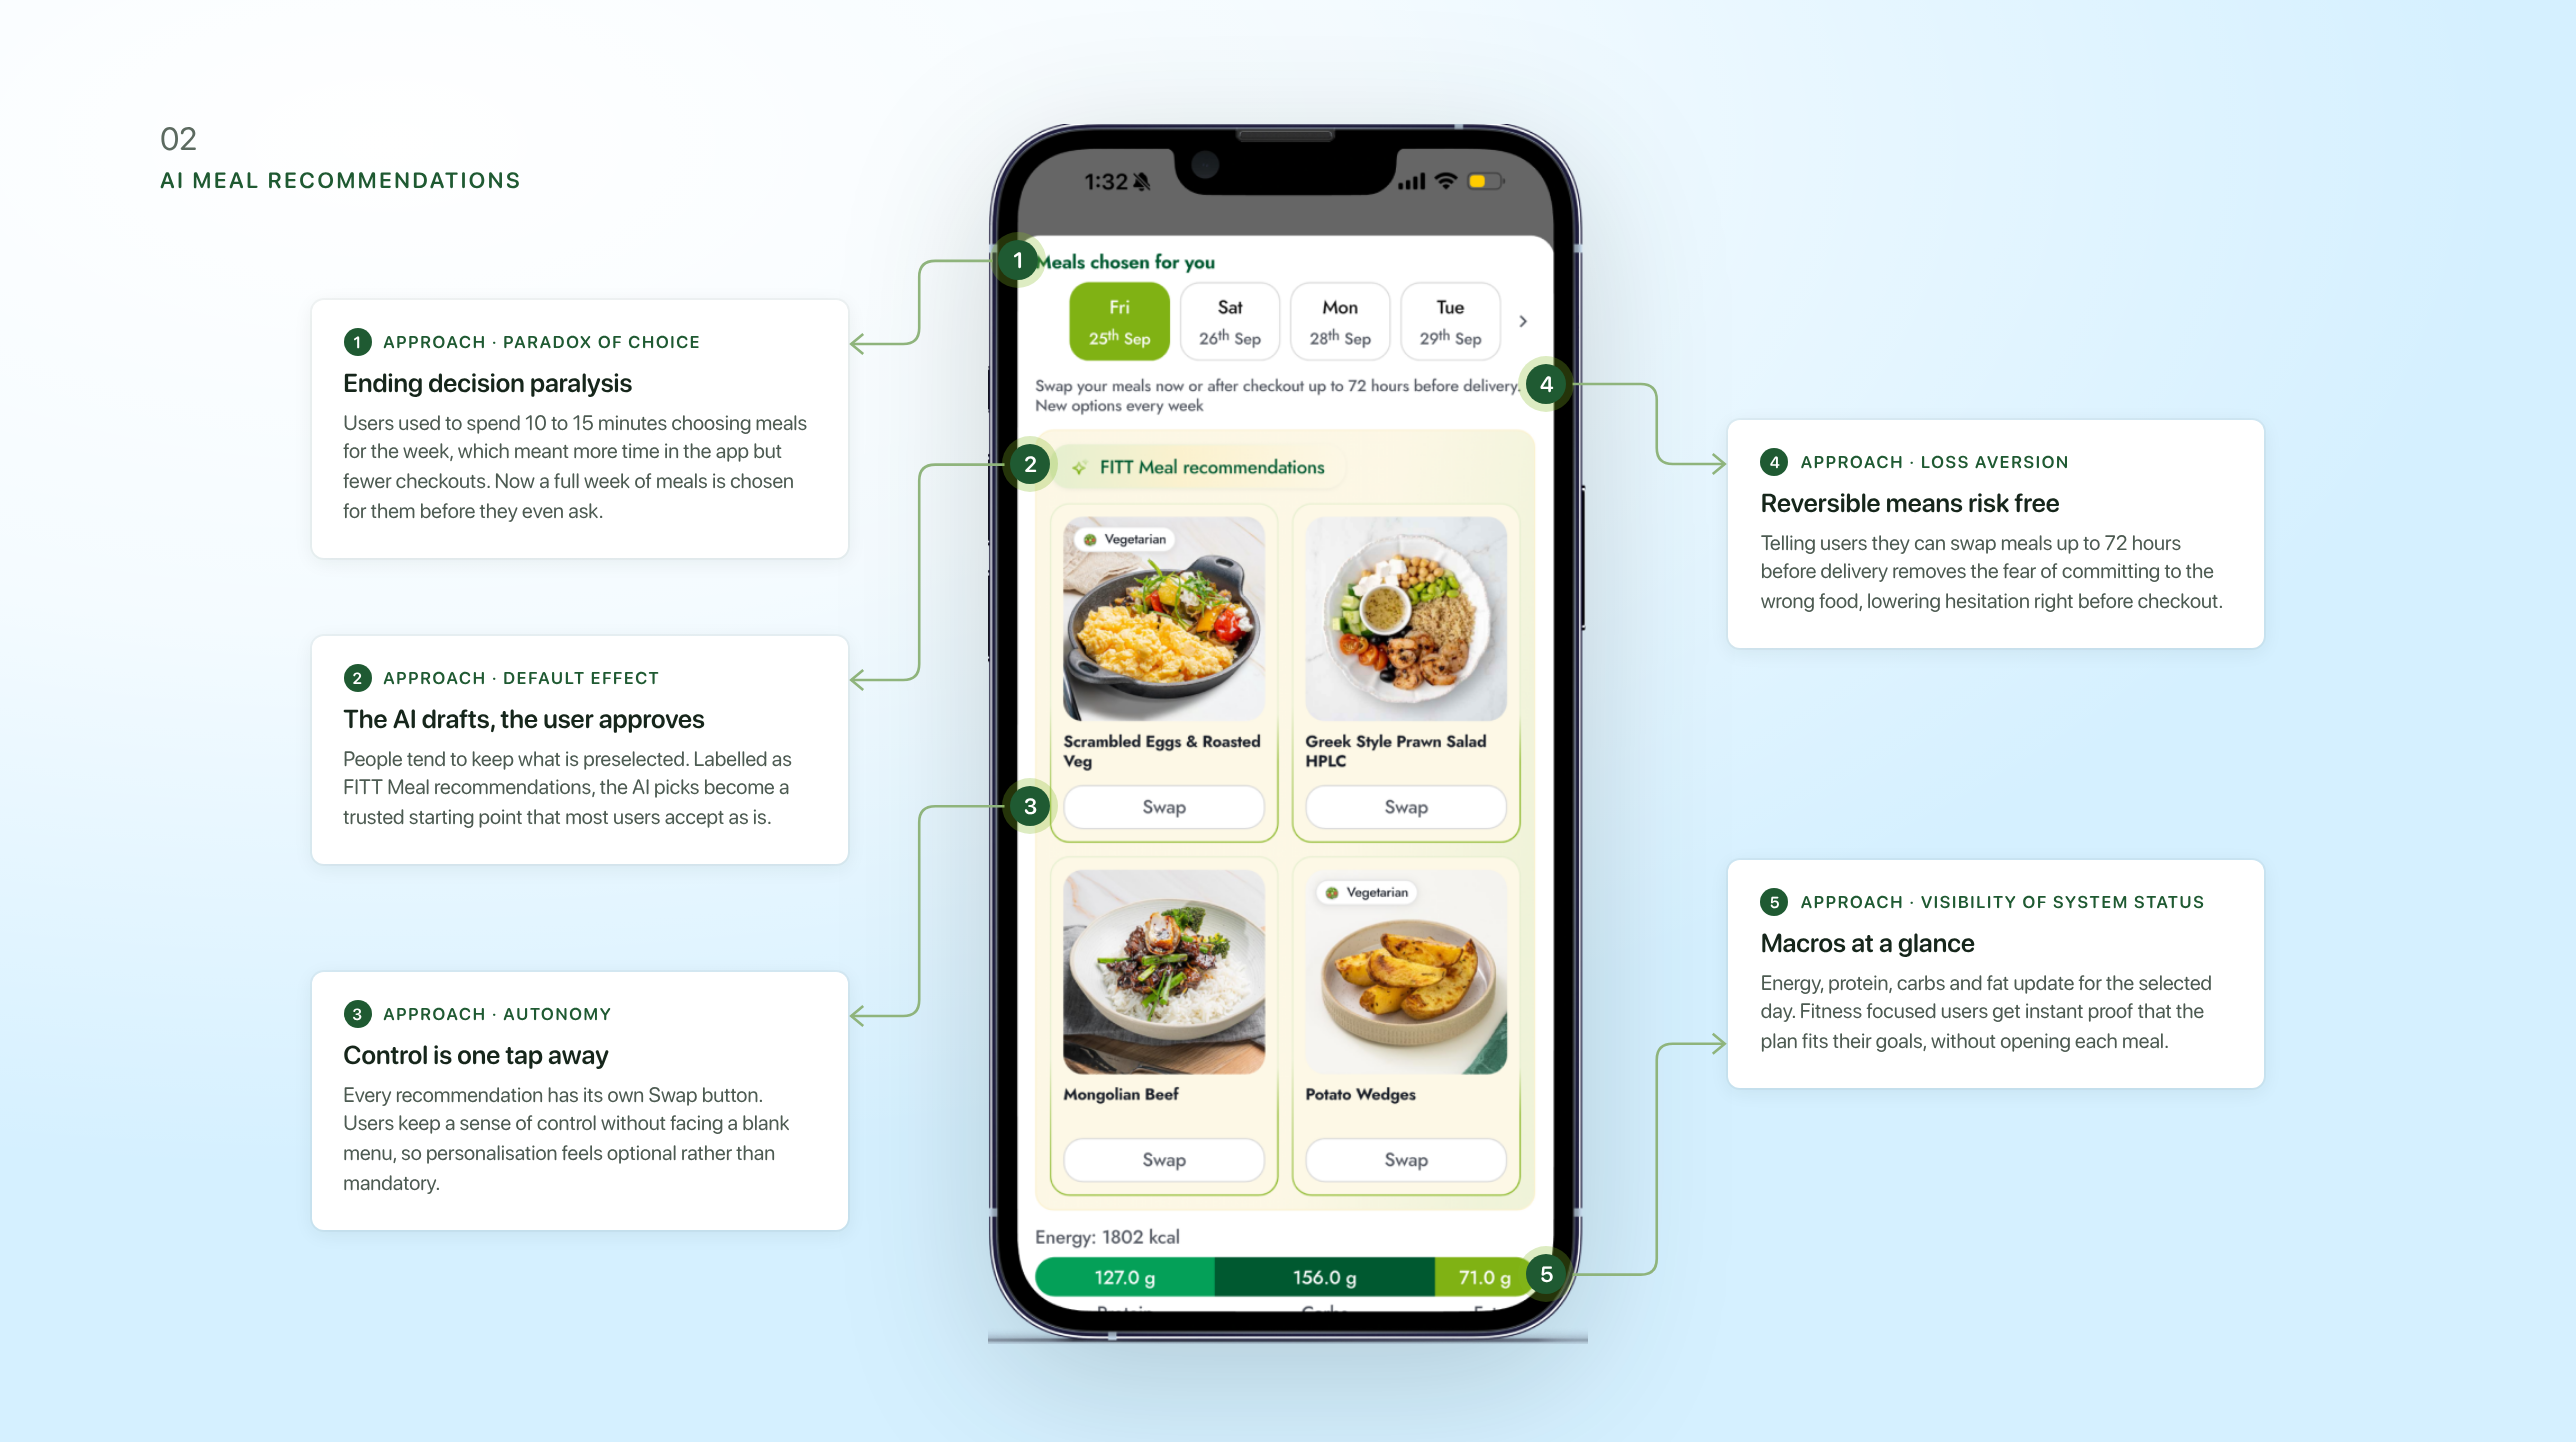
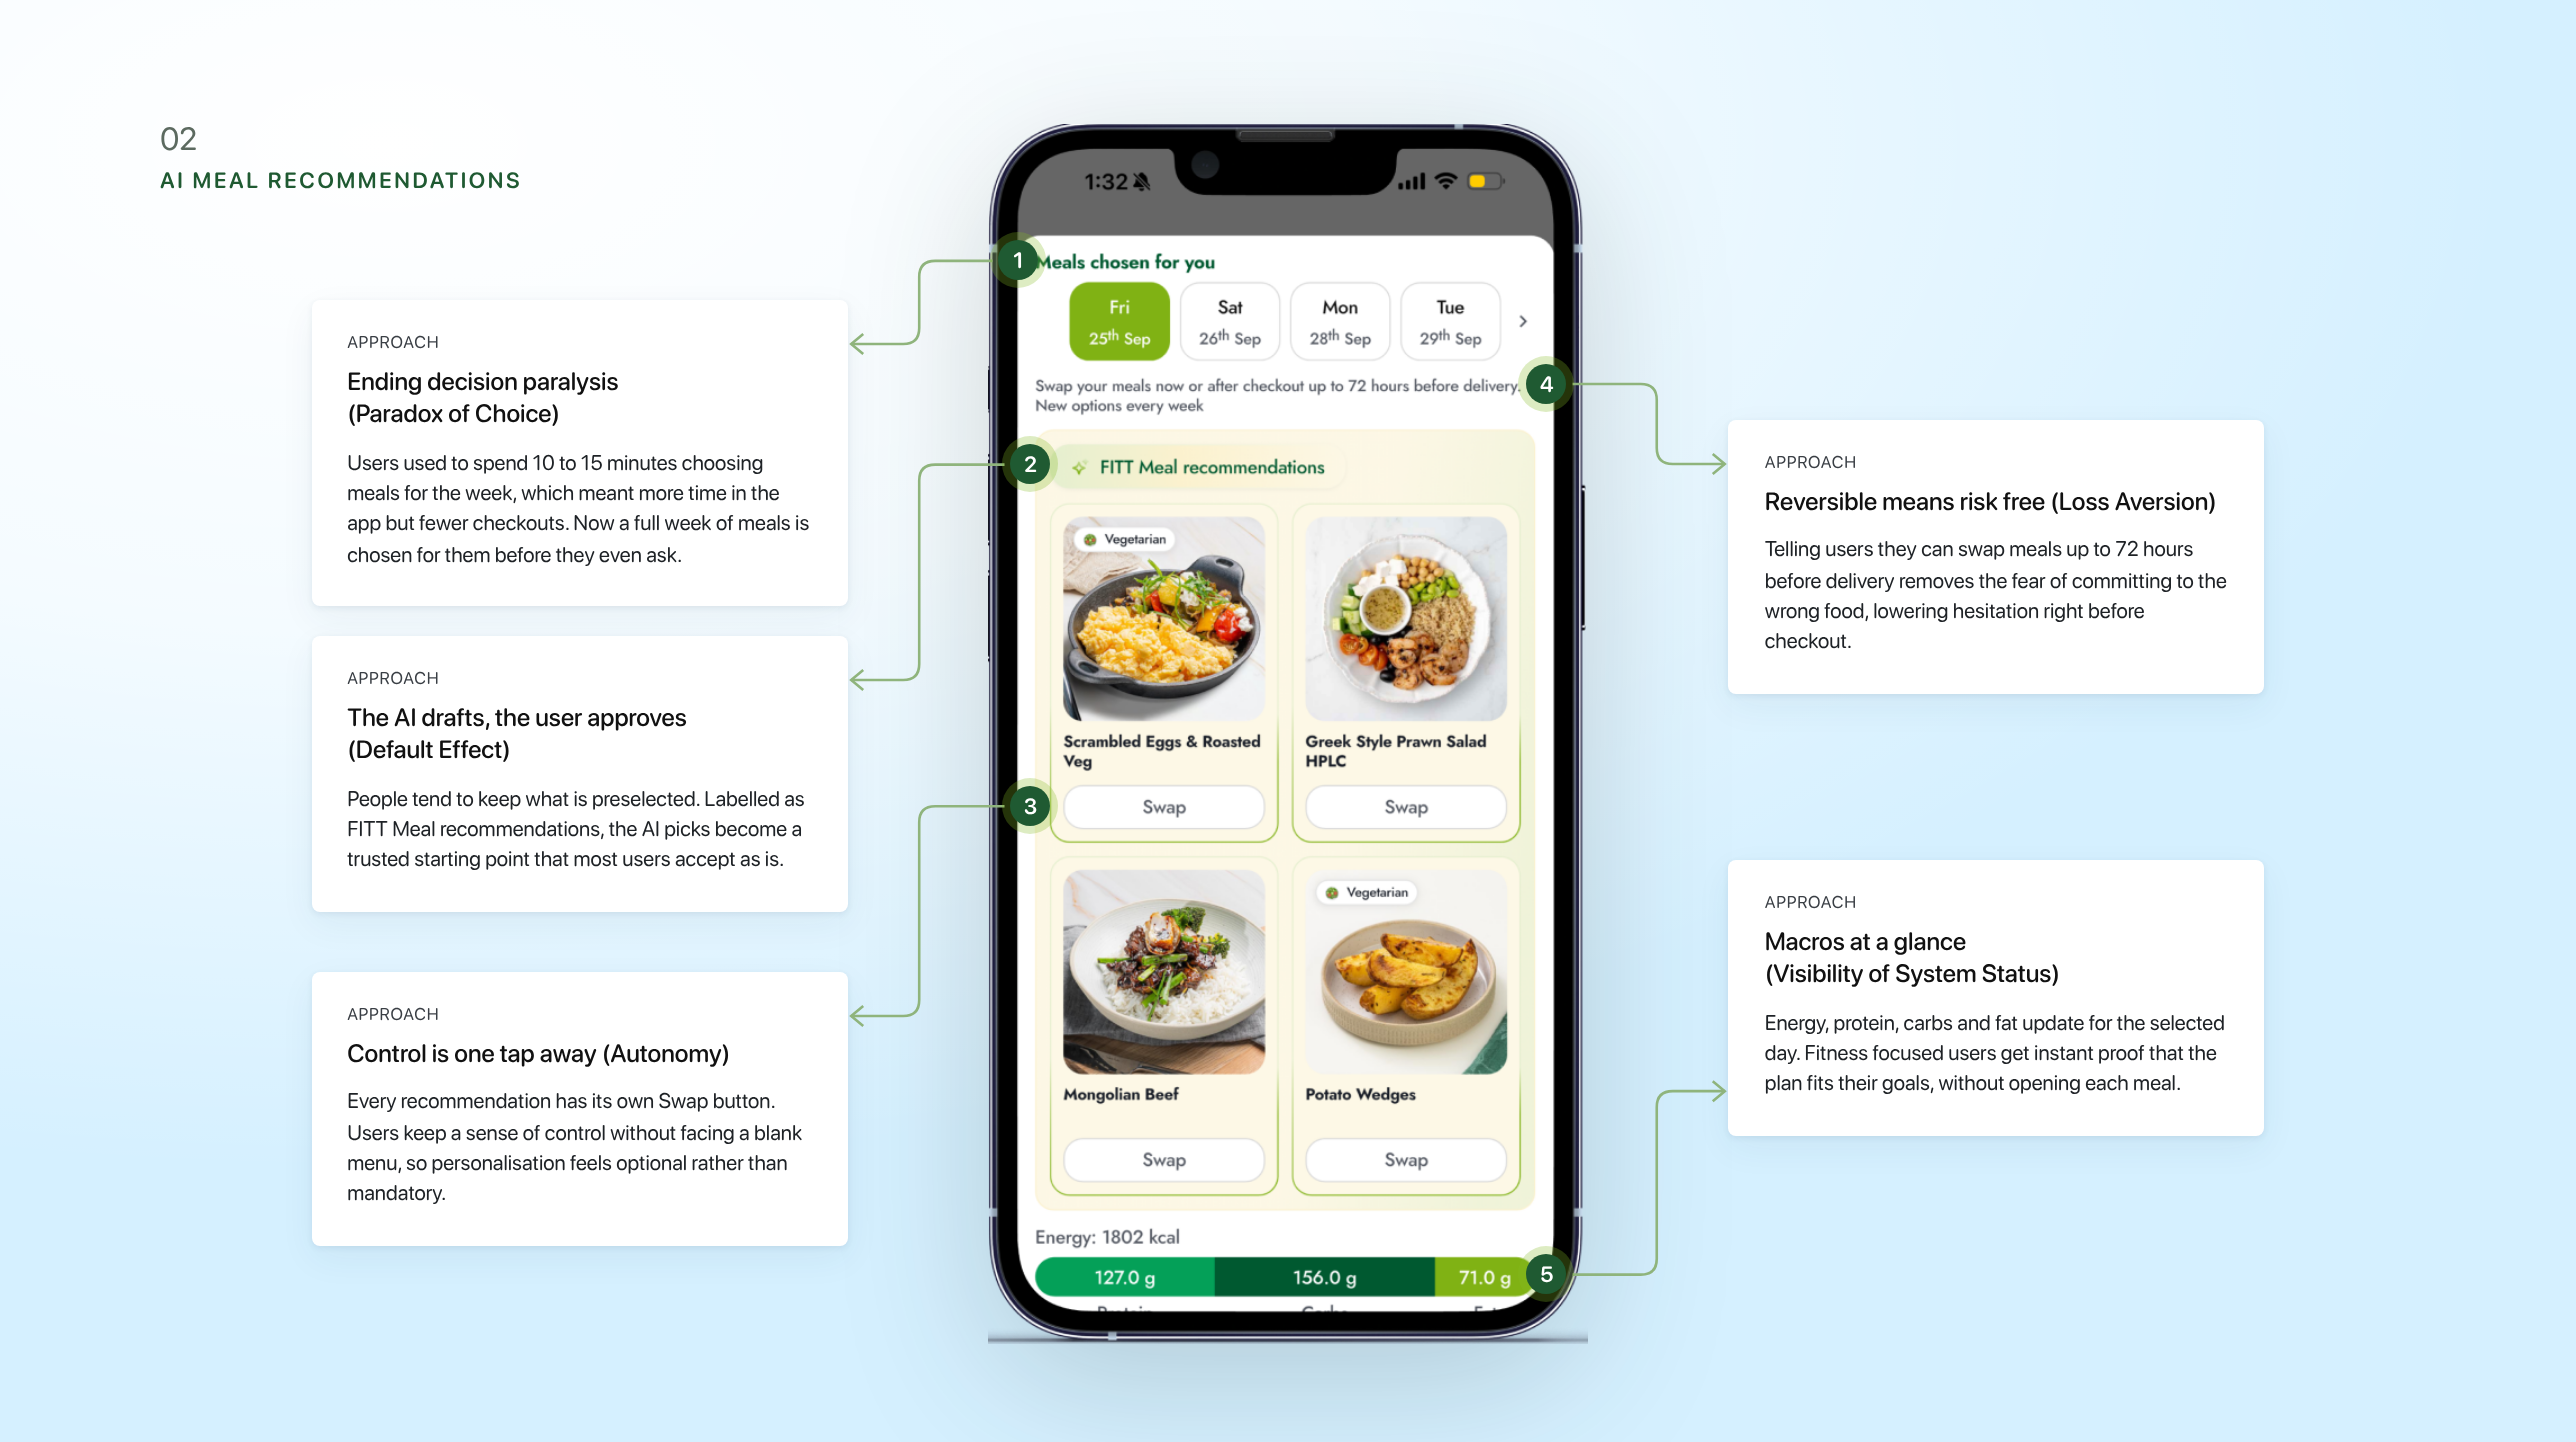
FITT: update core feature images

diff --git a/work/fitt-subscription-journey.html b/work/fitt-subscription-journey.html
@@ -5,7 +5,7 @@
 <link rel="icon" type="image/svg+xml" href="../assets/favicon.svg">
 <meta name="viewport" content="width=device-width, initial-scale=1.0">
 <title>FITT Meals: Subscription Journey | Hafsah Zulafiqar</title>
-<link rel="stylesheet" href="../styles.css?v=2026100827">
+<link rel="stylesheet" href="../styles.css?v=2026101301">
 <link rel="preconnect" href="https://fonts.googleapis.com">
 <link rel="preconnect" href="https://fonts.gstatic.com" crossorigin>
 <link href="https://fonts.googleapis.com/css2?family=DM+Sans:wght@400;500;700&family=Fira+Sans:wght@400;700;800;900&display=swap" rel="stylesheet">
@@ -181,25 +181,25 @@
         <div class="case-feature-block">
           <h4>Choose which plan suits you best</h4>
           <p>Preview the plans to see what options suit your lifestyle, look at the weekly menu, the portion options and jump to a preset selection of customizations tailored for you.</p>
-          <img class="case-feature-img" src="../assets/fitt-meals/core-ux-plan-discovery.png" alt="Plan discovery and setup: plans named after goals, a bottom sheet with a sample menu, and a prefilled build screen, each annotated with the design approach" width="2576" height="1442" loading="lazy">
+          <img class="case-feature-img" src="../assets/fitt-meals/core-ux-plan-discovery.png?v=2" alt="Plan discovery and setup: plans named after goals, a bottom sheet with a sample menu, and a prefilled build screen, each annotated with the design approach" width="2576" height="1442" loading="lazy">
         </div>
 
         <div class="case-feature-block">
           <h4>See exactly what you're getting</h4>
           <p>Fewer choices, smart defaults and one card per question. The total and discounts update live above the button, so the price is clear before payment.</p>
-          <img class="case-feature-img" src="../assets/fitt-meals/core-ux-build-plan.png" alt="Build your plan screen annotated with the design approaches: smart defaults, fewer choices, one card per question, upfront total and a thumb-zone Next button" width="2576" height="1442" loading="lazy">
+          <img class="case-feature-img" src="../assets/fitt-meals/core-ux-build-plan.png?v=2" alt="Build your plan screen annotated with the design approaches: smart defaults, fewer choices, one card per question, upfront total and a thumb-zone Next button" width="2576" height="1442" loading="lazy">
         </div>
 
         <div class="case-feature-block">
           <h4>Manage it your way</h4>
           <p>A week of meals is chosen for you before you ask, with a Swap button on every pick and macros visible at a glance. Swapping is open until 72 hours before delivery.</p>
-          <img class="case-feature-img" src="../assets/fitt-meals/core-ux-ai-meals.png" alt="AI meal recommendations screen annotated with the design approaches: ending decision paralysis, AI drafts the user approves, one-tap control, reversible swaps and macros at a glance" width="2576" height="1442" loading="lazy">
+          <img class="case-feature-img" src="../assets/fitt-meals/core-ux-ai-meals.png?v=2" alt="AI meal recommendations screen annotated with the design approaches: ending decision paralysis, AI drafts the user approves, one-tap control, reversible swaps and macros at a glance" width="2576" height="1442" loading="lazy">
         </div>
 
         <div class="case-feature-block">
           <h4>Check out in a few taps</h4>
           <p>Build first, sign up later. The original price sits beside the plan price, savings are framed as a gain, and the last thing users read before paying is plain-language reassurance.</p>
-          <img class="case-feature-img" src="../assets/fitt-meals/core-ux-checkout.png" alt="Quick checkout screen annotated with the design approaches: build first and sign up later, price anchoring, savings framed as a gain, ending on reassurance and fewer steps to Pay Now" width="2576" height="1442" loading="lazy">
+          <img class="case-feature-img" src="../assets/fitt-meals/core-ux-checkout.png?v=2" alt="Quick checkout screen annotated with the design approaches: build first and sign up later, price anchoring, savings framed as a gain, ending on reassurance and fewer steps to Pay Now" width="2576" height="1442" loading="lazy">
         </div>
       </section>
 
@@ -280,6 +280,6 @@
   <div class="footer-skyline" aria-hidden="true"></div>
 </footer>
 
-<script src="../script.js?v=2026100827"></script>
+<script src="../script.js?v=2026101301"></script>
 </body>
 </html>

diff --git a/index.html b/index.html
@@ -19,7 +19,7 @@
 <meta name="twitter:description" content="Customer Experience &amp; Design Manager and Product Design Manager based in Dubai, UAE. Design and growth case studies from FITT Meals, Kahunas, PureCS, and more.">
 <meta name="twitter:image" content="https://hafsahzulafiqar-prod.github.io/hafsahzulafiqar/assets/profile/hafsah.png">
 <script>document.documentElement.classList.add('js-ready');</script>
-<link rel="stylesheet" href="styles.css?v=2026100827">
+<link rel="stylesheet" href="styles.css?v=2026101301">
 <link rel="preconnect" href="https://fonts.googleapis.com">
 <link rel="preconnect" href="https://fonts.gstatic.com" crossorigin>
 <link href="https://fonts.googleapis.com/css2?family=DM+Sans:wght@400;500;700&family=Fira+Sans:wght@400;700;800;900&display=swap" rel="stylesheet">
@@ -425,6 +425,6 @@
   </div>
 </div>
 
-<script src="script.js?v=2026100827"></script>
+<script src="script.js?v=2026101301"></script>
 </body>
 </html>

diff --git a/work/ai-tutor-ksa.html b/work/ai-tutor-ksa.html
@@ -5,7 +5,7 @@
 <link rel="icon" type="image/svg+xml" href="../assets/favicon.svg">
 <meta name="viewport" content="width=device-width, initial-scale=1.0">
 <title>Mualim | Hafsah Zulafiqar</title>
-<link rel="stylesheet" href="../styles.css?v=2026100827">
+<link rel="stylesheet" href="../styles.css?v=2026101301">
 <link rel="preconnect" href="https://fonts.googleapis.com">
 <link rel="preconnect" href="https://fonts.gstatic.com" crossorigin>
 <link href="https://fonts.googleapis.com/css2?family=DM+Sans:wght@400;500;700&family=Fira+Sans:wght@400;700;800;900&display=swap" rel="stylesheet">
@@ -254,6 +254,6 @@
   <div class="footer-skyline" aria-hidden="true"></div>
 </footer>
 
-<script src="../script.js?v=2026100827"></script>
+<script src="../script.js?v=2026101301"></script>
 </body>
 </html>

diff --git a/work/pura-health-redesign.html b/work/pura-health-redesign.html
@@ -5,7 +5,7 @@
 <link rel="icon" type="image/svg+xml" href="../assets/favicon.svg">
 <meta name="viewport" content="width=device-width, initial-scale=1.0">
 <title>PureCS | Hafsah Zulafiqar</title>
-<link rel="stylesheet" href="../styles.css?v=2026100827">
+<link rel="stylesheet" href="../styles.css?v=2026101301">
 <link rel="preconnect" href="https://fonts.googleapis.com">
 <link rel="preconnect" href="https://fonts.gstatic.com" crossorigin>
 <link href="https://fonts.googleapis.com/css2?family=DM+Sans:wght@400;500;700&family=Fira+Sans:wght@400;700;800;900&display=swap" rel="stylesheet">
@@ -298,6 +298,6 @@
   <div class="footer-skyline" aria-hidden="true"></div>
 </footer>
 
-<script src="../script.js?v=2026100827"></script>
+<script src="../script.js?v=2026101301"></script>
 </body>
 </html>

diff --git a/work/jugnu-retailer-app.html b/work/jugnu-retailer-app.html
@@ -5,7 +5,7 @@
 <link rel="icon" type="image/svg+xml" href="../assets/favicon.svg">
 <meta name="viewport" content="width=device-width, initial-scale=1.0">
 <title>Jugnu | Hafsah Zulafiqar</title>
-<link rel="stylesheet" href="../styles.css?v=2026100827">
+<link rel="stylesheet" href="../styles.css?v=2026101301">
 <link rel="preconnect" href="https://fonts.googleapis.com">
 <link rel="preconnect" href="https://fonts.gstatic.com" crossorigin>
 <link href="https://fonts.googleapis.com/css2?family=DM+Sans:wght@400;500;700&family=Fira+Sans:wght@400;700;800;900&display=swap" rel="stylesheet">
@@ -414,6 +414,6 @@
   </div>
 </div>
 
-<script src="../script.js?v=2026100827"></script>
+<script src="../script.js?v=2026101301"></script>
 </body>
 </html>

diff --git a/work/dtc-meal-plans.html b/work/dtc-meal-plans.html
@@ -5,7 +5,7 @@
 <link rel="icon" type="image/svg+xml" href="../assets/favicon.svg">
 <meta name="viewport" content="width=device-width, initial-scale=1.0">
 <title>FITT Meals | Hafsah Zulafiqar</title>
-<link rel="stylesheet" href="../styles.css?v=2026100827">
+<link rel="stylesheet" href="../styles.css?v=2026101301">
 <link rel="preconnect" href="https://fonts.googleapis.com">
 <link rel="preconnect" href="https://fonts.gstatic.com" crossorigin>
 <link href="https://fonts.googleapis.com/css2?family=DM+Sans:wght@400;500;700&family=Fira+Sans:wght@400;700;800;900&display=swap" rel="stylesheet">
@@ -119,6 +119,6 @@
 </div>
 
 
-<script src="../script.js?v=2026100827"></script>
+<script src="../script.js?v=2026101301"></script>
 </body>
 </html>

diff --git a/work/b2b-coaches.html b/work/b2b-coaches.html
@@ -5,7 +5,7 @@
 <link rel="icon" type="image/svg+xml" href="../assets/favicon.svg">
 <meta name="viewport" content="width=device-width, initial-scale=1.0">
 <title>Kahunas | Hafsah Zulafiqar</title>
-<link rel="stylesheet" href="../styles.css?v=2026100827">
+<link rel="stylesheet" href="../styles.css?v=2026101301">
 <link rel="preconnect" href="https://fonts.googleapis.com">
 <link rel="preconnect" href="https://fonts.gstatic.com" crossorigin>
 <link href="https://fonts.googleapis.com/css2?family=DM+Sans:wght@400;500;700&family=Fira+Sans:wght@400;700;800;900&display=swap" rel="stylesheet">
@@ -219,6 +219,6 @@
 
 
 
-<script src="../script.js?v=2026100827"></script>
+<script src="../script.js?v=2026101301"></script>
 </body>
 </html>

diff --git a/resume.html b/resume.html
@@ -5,7 +5,7 @@
 <link rel="icon" type="image/svg+xml" href="assets/favicon.svg">
 <meta name="viewport" content="width=device-width, initial-scale=1.0">
 <title>Resume | Hafsah Zulafiqar</title>
-<link rel="stylesheet" href="styles.css?v=2026100827">
+<link rel="stylesheet" href="styles.css?v=2026101301">
 <link rel="preconnect" href="https://fonts.googleapis.com">
 <link rel="preconnect" href="https://fonts.gstatic.com" crossorigin>
 <link href="https://fonts.googleapis.com/css2?family=DM+Sans:wght@400;500;700&family=Fira+Sans:wght@400;700;800;900&display=swap" rel="stylesheet">
@@ -95,6 +95,6 @@
 </main>
 
 
-<script src="script.js?v=2026100827"></script>
+<script src="script.js?v=2026101301"></script>
 </body>
 </html>

diff --git a/about.html b/about.html
@@ -5,7 +5,7 @@
 <link rel="icon" type="image/svg+xml" href="assets/favicon.svg">
 <meta name="viewport" content="width=device-width, initial-scale=1.0">
 <title>About | Hafsah Zulafiqar</title>
-<link rel="stylesheet" href="styles.css?v=2026100827">
+<link rel="stylesheet" href="styles.css?v=2026101301">
 <link rel="preconnect" href="https://fonts.googleapis.com">
 <link rel="preconnect" href="https://fonts.gstatic.com" crossorigin>
 <link href="https://fonts.googleapis.com/css2?family=DM+Sans:wght@400;500;700&family=Fira+Sans:wght@400;700;800;900&display=swap" rel="stylesheet">
@@ -83,6 +83,6 @@
 </main>
 
 
-<script src="script.js?v=2026100827"></script>
+<script src="script.js?v=2026101301"></script>
 </body>
 </html>
